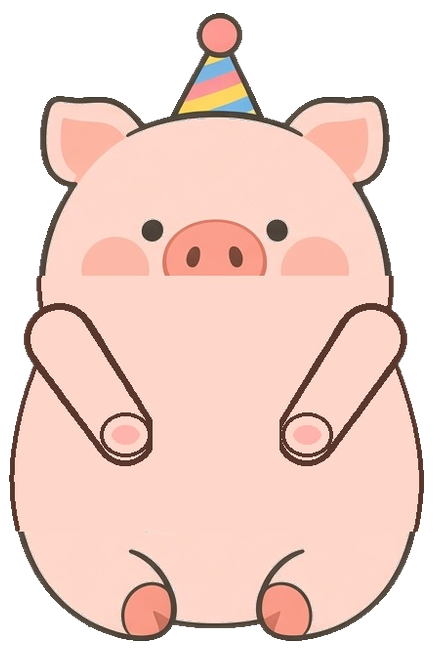
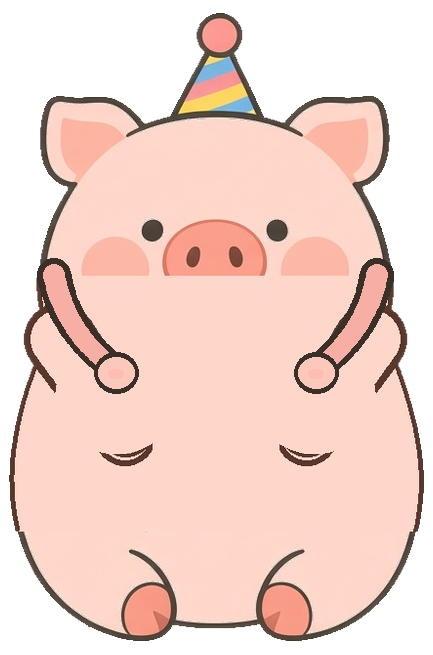
fix: connected stubby arms, desktop hat clearance, larger mobile card
- Composite stubby pink arms (Pillow) onto lulu-fullbody so hands connect to torso
- Shrink desktop flyer + raise hero-copy z-index so party hat clears subtitle
- Enlarge birthday-sign on ≤768/≤480 so countdown text fits

diff --git a/css/styles.css b/css/styles.css
@@ -21,9 +21,10 @@
   --nav-h: 56px;
   /* Pop-up size → full-body sitting figure (never crop head/feet) */
   --flyer-size: clamp(200px, 36vw, 300px);
-  /* Width drives height (PNG 433×655); object-fit:contain keeps full silhouette */
-  --flyer-landed-size: clamp(240px, 48vmin, 380px);
-  --flyer-landed-h: min(60vh, 520px);
+  /* Width drives height (PNG 433×655); object-fit:contain keeps full silhouette.
+     Desktop max ~340px so party hat stays below hero title+subtitle. */
+  --flyer-landed-size: clamp(220px, 42vmin, 340px);
+  --flyer-landed-h: min(52vh, 460px);
   /* ~30fps-friendly: 1.4s bounce pop ≈ 42 frames @ 30fps */
   --flight-duration: 0.75s; /* shorter bounce */
   --cursor-default: url("../assets/cursor-default.png") 0 0, auto;
@@ -231,13 +232,14 @@ button, .btn-replay, .cta-hint, .birthday-sign {
 
 .hero-copy {
   position: absolute;
-  top: 10%;
+  top: 6%;
   left: 50%;
   transform: translateX(-50%);
   text-align: center;
-  z-index: 5;
+  z-index: 12; /* above flyer hat */
   width: min(92%, 480px);
   pointer-events: none;
+  padding: 0 12px 1.25rem;
 }
 .hero-copy h1 {
   font-size: clamp(1.6rem, 5.5vw, 2.6rem);
@@ -322,7 +324,44 @@ button, .btn-replay, .cta-hint, .birthday-sign {
   }
   .hero-copy {
     padding-bottom: 0.5rem;
-    z-index: 6;
+    z-index: 12;
+  }
+  /* Mobile: larger countdown card so label + units + 點擊進入 all fit */
+  .birthday-sign {
+    top: 50%;
+    width: 52%;
+    height: 32%;
+    min-height: 32%;
+    max-height: 36%;
+    padding: 8px 6px 6px;
+    border-width: 3px !important;
+    border-radius: 12px;
+  }
+  .flyer-wrap.flying .birthday-sign {
+    top: 50%;
+    width: 52%;
+    height: 30%;
+  }
+  .sign-label {
+    font-size: clamp(0.72rem, 3.2vw, 0.95rem);
+    margin-bottom: 4px;
+  }
+  .birthday-sign .sign-unit .num {
+    font-size: clamp(1.05rem, 5.2vw, 1.55rem);
+  }
+  .birthday-sign .sign-unit .lbl {
+    font-size: clamp(0.58rem, 2.4vw, 0.75rem);
+  }
+  .birthday-sign .sign-click-hint {
+    font-size: clamp(0.85rem, 3.6vw, 1.05rem);
+    margin-top: 6px;
+  }
+  .sign-countdown {
+    gap: 4px;
+  }
+  .sign-unit {
+    padding: 4px 2px;
+    border-radius: 6px;
   }
 }
 @media (max-width: 480px) {
@@ -331,12 +370,51 @@ button, .btn-replay, .cta-hint, .birthday-sign {
     --flyer-landed-size: clamp(220px, min(68vw, 50vh), 340px);
     --flyer-landed-h: min(52vh, 440px);
   }
+  .birthday-sign {
+    top: 49%;
+    width: 54%;
+    height: 34%;
+    min-height: 34%;
+    max-height: 38%;
+    padding: 8px 6px 7px;
+  }
+  .sign-label {
+    font-size: clamp(0.78rem, 3.6vw, 1rem);
+  }
+  .birthday-sign .sign-unit .num {
+    font-size: clamp(1.1rem, 5.8vw, 1.6rem);
+  }
+  .birthday-sign .sign-click-hint {
+    font-size: clamp(0.9rem, 4vw, 1.1rem);
+  }
 }
 /* Very short viewports only: shrink just enough to keep hat→feet on screen */
 @media (max-height: 560px) {
   :root {
     --flyer-landed-size: clamp(180px, min(62vw, 42vh), 300px);
     --flyer-landed-h: min(48vh, 340px);
+  }
+}
+
+/* Desktop / tablet landscape: keep hat clear of subtitle */
+@media (min-width: 769px) {
+  :root {
+    --flyer-landed-size: clamp(220px, 34vmin, 300px);
+    --flyer-landed-h: min(46vh, 400px);
+  }
+  .flyer-wrap.idle,
+  .flyer-wrap.landed,
+  .flyer-wrap {
+    bottom: clamp(6px, 1.2vh, 20px);
+  }
+  .hero-copy {
+    top: 4%;
+    z-index: 12;
+    padding-bottom: 2rem;
+  }
+  .hero-copy .sub {
+    position: relative;
+    z-index: 13;
   }
 }
 
@@ -394,19 +472,19 @@ button, .btn-replay, .cta-hint, .birthday-sign {
 .birthday-sign {
   position: absolute;
   left: 50%;
-  /* Below snout/blush; between hands (red-box zone) */
-  top: 54%;
+  /* Below snout/blush; between stubby hands gripping L/R edges */
+  top: 52%;
   bottom: auto;
   display: flex;
   flex-direction: column;
   align-items: center;
   justify-content: center;
   width: 40%;
-  height: 26%;
-  min-height: 26%;
-  max-height: 28%;
+  height: 27%;
+  min-height: 27%;
+  max-height: 30%;
   margin: 0;
-  padding: 5px 4px 4px;
+  padding: 6px 5px 5px;
   /* Solid opaque pale yellow — never see-through */
   background: #FFF6C8 !important;
   background-color: #FFF6C8 !important;
@@ -788,9 +866,9 @@ button, .btn-replay, .cta-hint, .birthday-sign {
     animation: none !important;
     position: absolute !important;
     left: 50% !important;
-    top: 54% !important;
-    width: 44% !important;
-    height: 26% !important;
+    top: 52% !important;
+    width: 42% !important;
+    height: 27% !important;
     margin: 0 !important;
   }
   .cloud, .sun { animation: none; }
